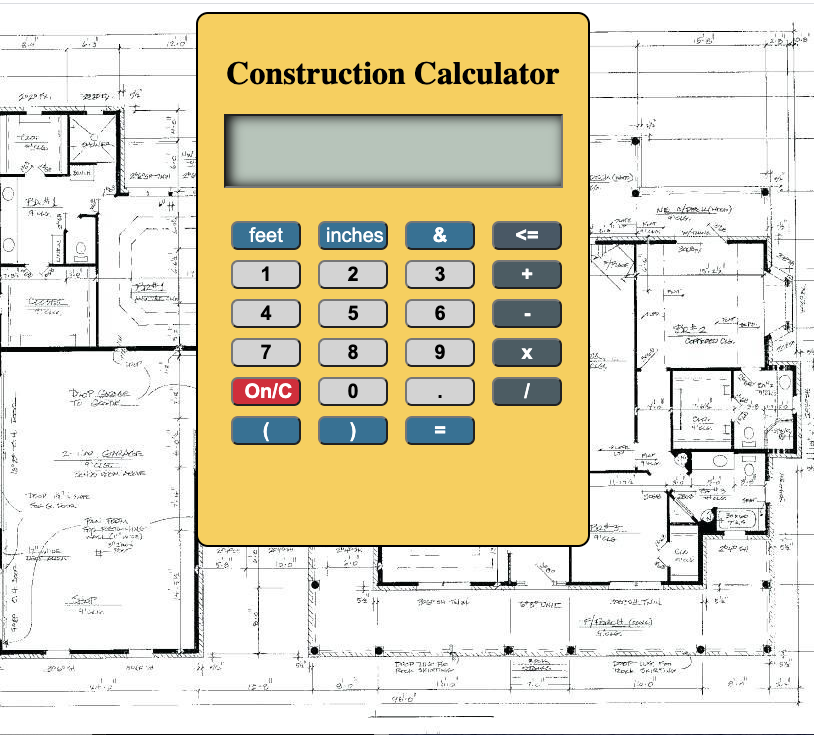
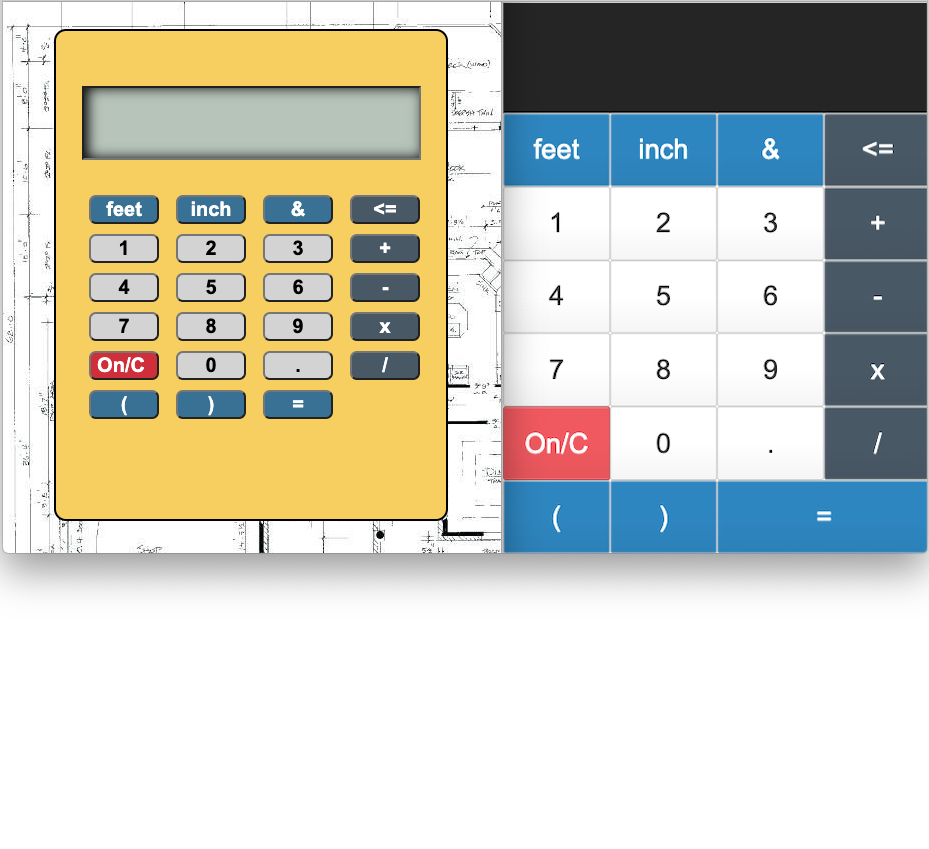
Added a third project

diff --git a/Public/index.html b/Public/index.html
@@ -157,7 +157,7 @@
 						<div class="card-image3"></div>
 						<div class="card-text">
 							<h2 style="font-weight: 800;">Construction Calculator</h2>
-							<p>A calculator designed to output measuremeant in imperial system units. Designed for mobile use in mind.
+							<p>A calculator designed to output measuremeant in imperial system units. Switches design between desktop or mobile.
 							</p>
 							<button class="source"
 								onclick="window.location.href='https://github.com/Hecano7/construction_calculator';">Source

diff --git a/Public/assets/css/main.css b/Public/assets/css/main.css
@@ -321,6 +321,8 @@ input, select, textarea {
 		box-sizing: border-box;
 		align-items: stretch;
 		justify-content:center;
+		padding-bottom: 1em;
+		margin-bottom: 1em;
 	}
 
 		
@@ -2389,7 +2391,7 @@ input, select, textarea {
 		.main > header {
 			background: #fff;
 			text-align: center;
-			padding: 3em 0 3em 0;
+			padding: 0 0 3em 0;
 			margin: 0;
 		}
 
